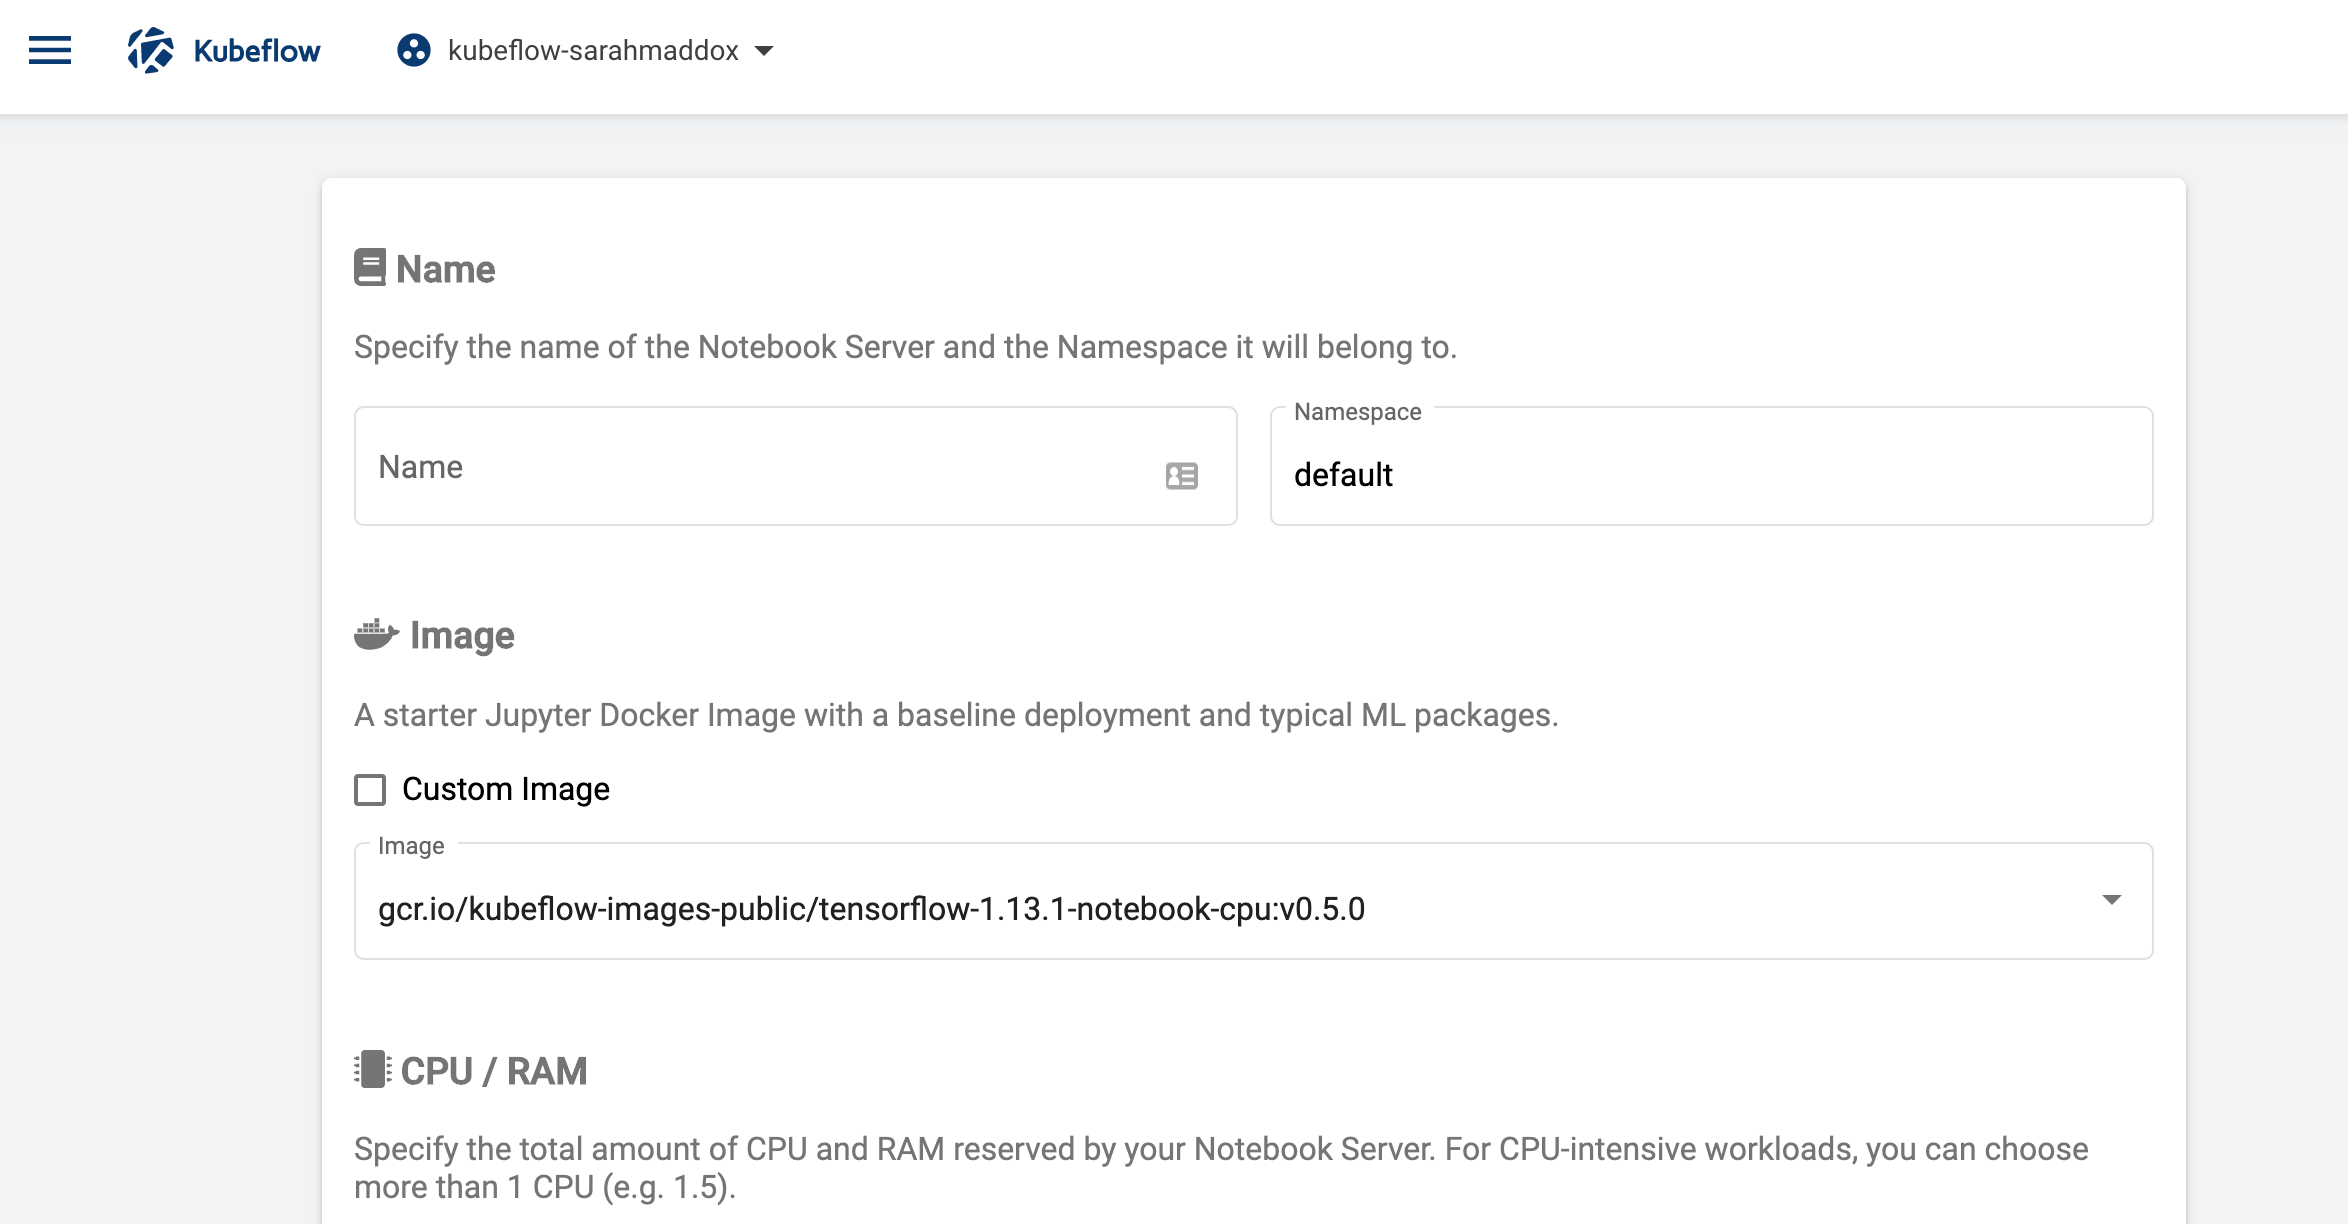
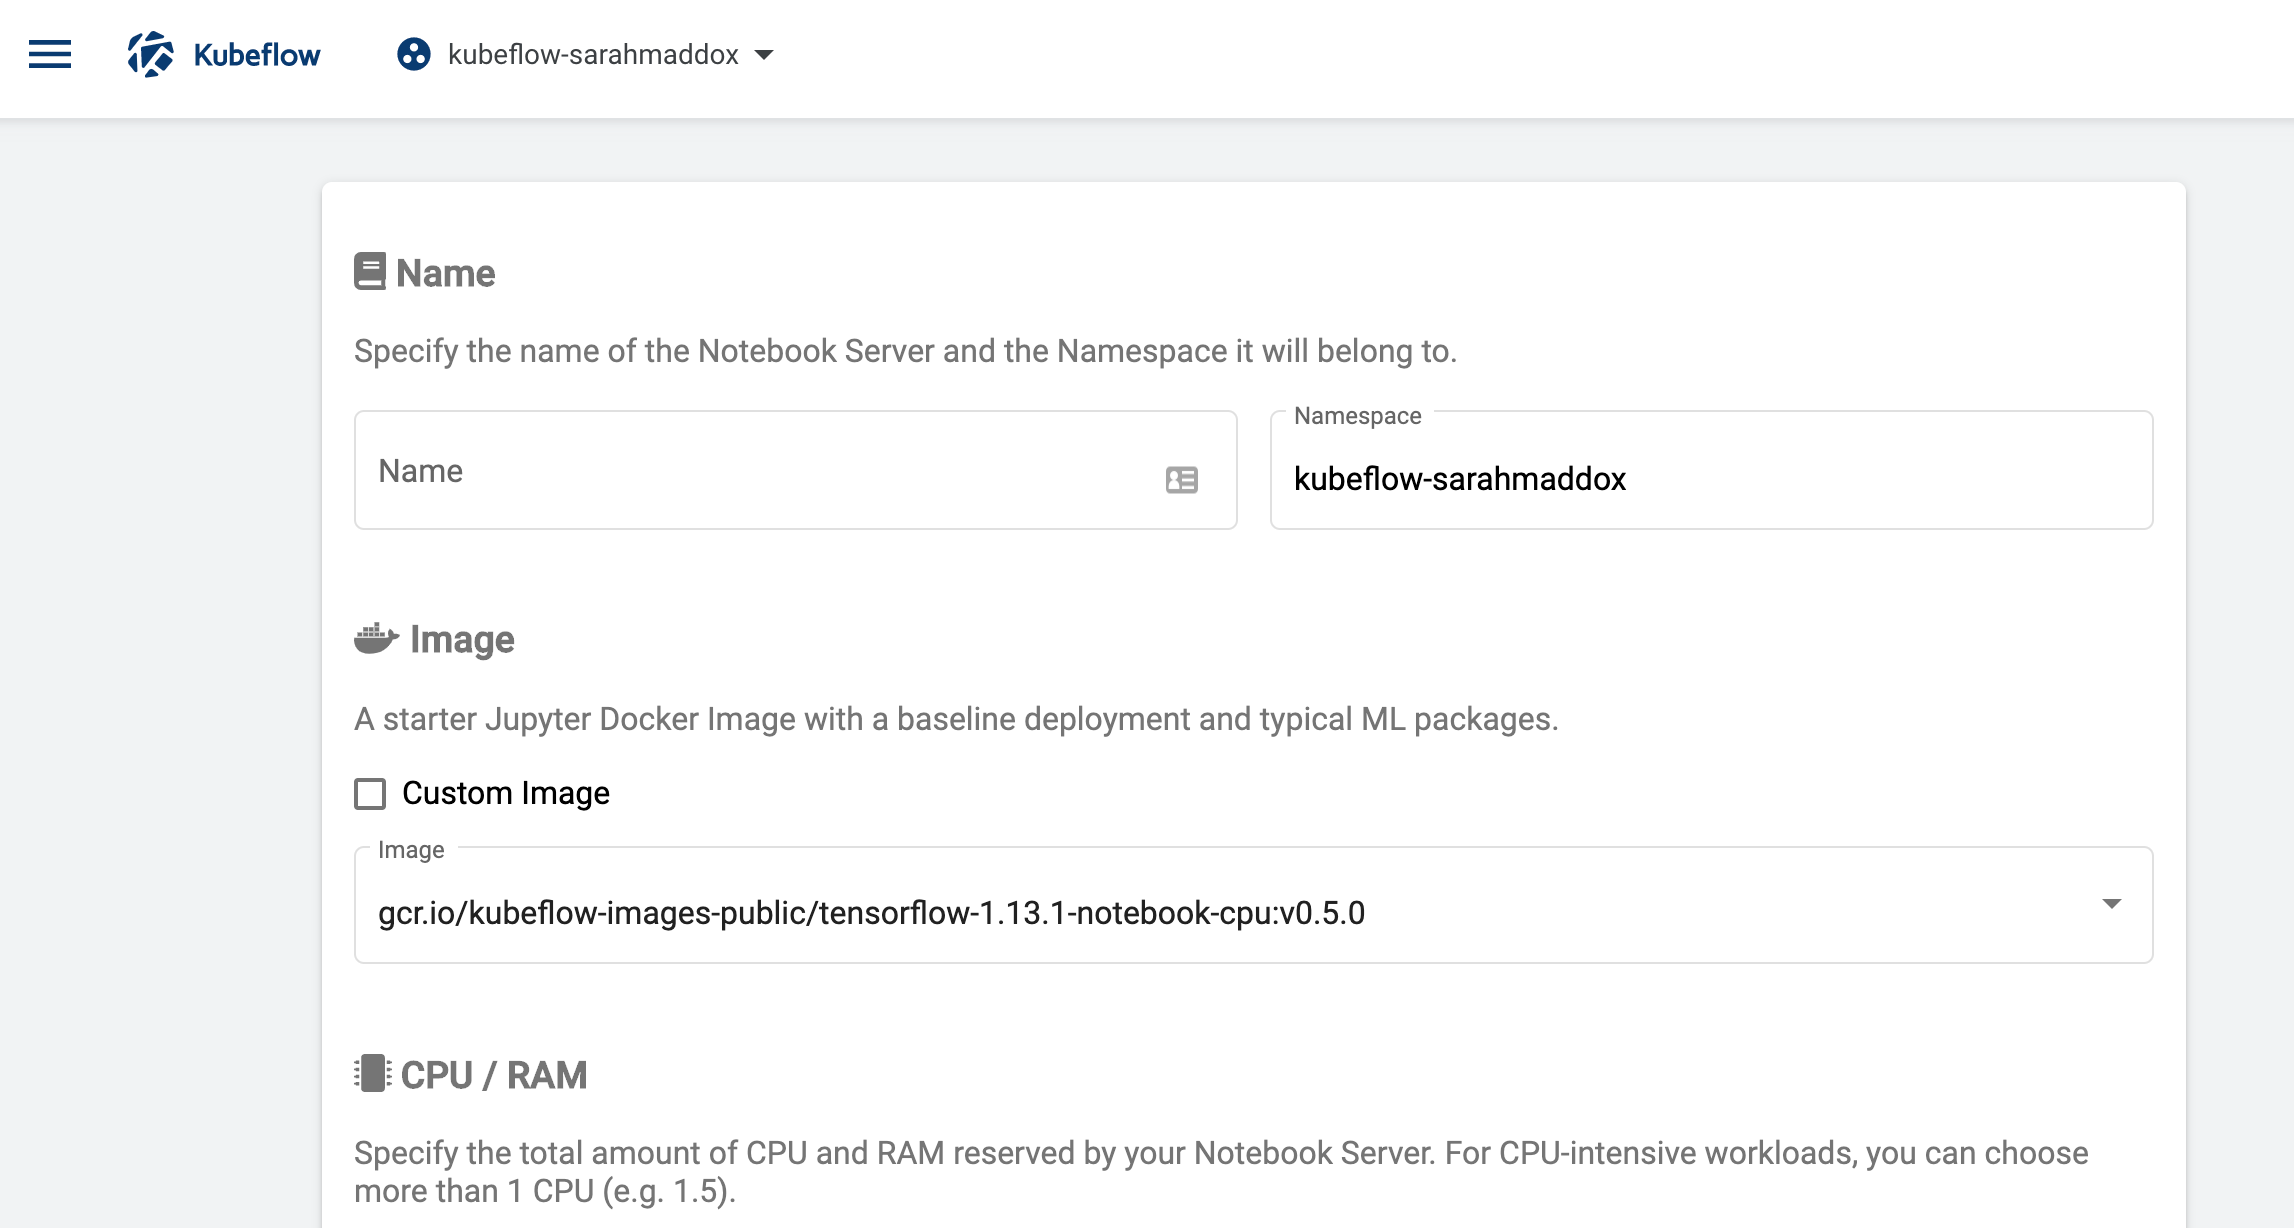
Finished UI updates for notebooks.

diff --git a/content/docs/notebooks/setup.md b/content/docs/notebooks/setup.md
@@ -95,8 +95,9 @@ getting-started guide for your chosen environment. For example:
 
 1. Enter a **name** of your choice for the notebook server. The name can
   include letters and numbers, but no spaces. For example, `my-first-notebook`.
-1. Enter the **namespace** that you selected in a previous step. This ensures 
-  that the new notebook server is in a namespace that you can access.
+1. Kubeflow automatically updates the value in the **namespace** field to
+  be the same as the namespace that you selected in a previous step. This 
+  ensures that the new notebook server is in a namespace that you can access.
 
 1. Select a Docker **image** for the baseline deployment of your notebook 
   server. You can choose from a range of *standard* images or specify a 
